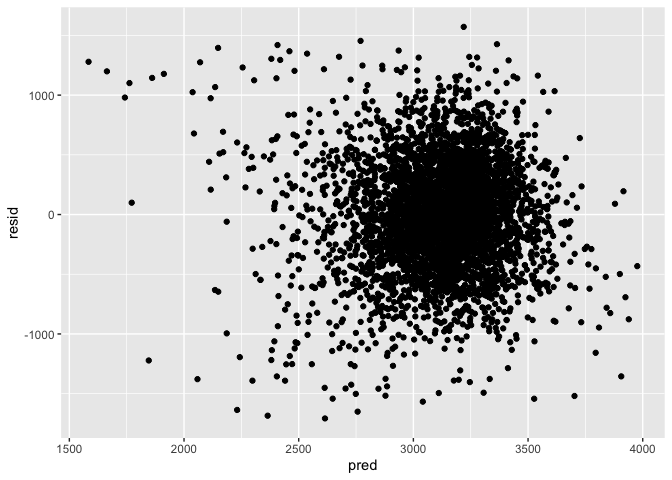
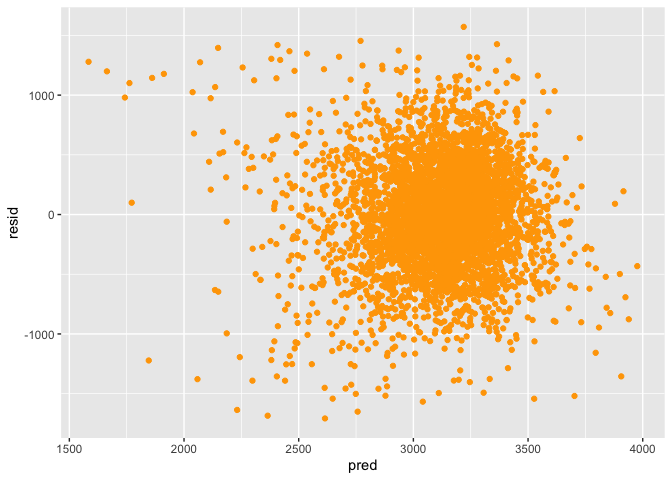
updated plot color

diff --git a/p8105_hw6_blm2156.md b/p8105_hw6_blm2156.md
@@ -6,14 +6,14 @@ Britney Mazzetta
 library(tidyverse)
 ```
 
-    ## ── Attaching packages ─────────────────────────────────── tidyverse 1.2.1 ──
+    ## ── Attaching packages ───────────────────────── tidyverse 1.2.1 ──
 
     ## ✔ ggplot2 3.2.1     ✔ purrr   0.3.2
     ## ✔ tibble  2.1.3     ✔ dplyr   0.8.3
     ## ✔ tidyr   1.0.0     ✔ stringr 1.4.0
     ## ✔ readr   1.3.1     ✔ forcats 0.4.0
 
-    ## ── Conflicts ────────────────────────────────────── tidyverse_conflicts() ──
+    ## ── Conflicts ──────────────────────────── tidyverse_conflicts() ──
     ## ✖ dplyr::filter() masks stats::filter()
     ## ✖ dplyr::lag()    masks stats::lag()
 
@@ -92,7 +92,7 @@ btw%>%
 modelr::add_residuals(reg_model1) %>%
 modelr::add_predictions(reg_model1) %>%
   ggplot(aes(x = pred, y = resid)) +
-  geom_point()
+  geom_point(color = "orange")
 ```
 
     ## Warning in predict.lm(model, data): prediction from a rank-deficient fit
